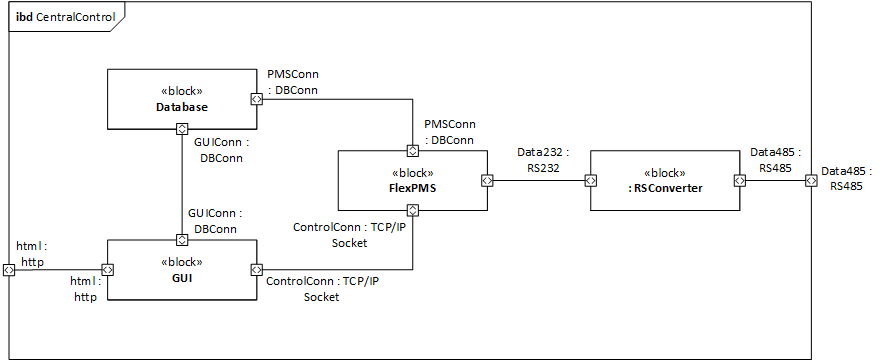
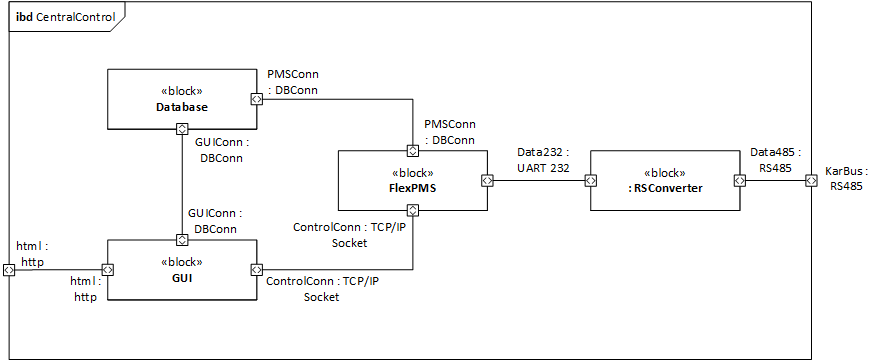
Små rettelser

diff --git a/Projektdokumentation/Systemarkitektur/KarControl/KarControl.tex b/Projektdokumentation/Systemarkitektur/KarControl/KarControl.tex
@@ -28,11 +28,6 @@ Vandpumpen pumper vand fra karret ud til Sensor Ø’erne.
 Flowmåleren måler mængden af vand, som tilføres karret gennem Indløbsventilen.
 
 
-\subsubsection{RSConverter}
-RSConverter konverterer fra RS485 til RS232 når der modtages data, og fra RS232 til RS485 når der afsendes data.
-
-
-
 \subsection{KarControl IBD}
 
 \begin{figure}[H]
@@ -70,15 +65,15 @@ RSConverter konverterer fra RS485 til RS232 når der modtages data fra KarContro
 KarBus				& RS485 bus til kommunikation mellem enheder &	 	& Differentielt bussystem  \\
 OeBus				& RS485 bus til kommunikation mellem enheder &	 	& Differentielt bussystem  \\
 Data485				& RS485 bus til kommunikation mellem enheder &	 	& internt signal   \\
-UART232				& RS485 konverteret til logisk niveau		 &	 	& Signal efter konvertering  \\
+Data232				& RS485 konverteret til logisk niveau		 &	 	& Signal efter konvertering  \\
 EnableIndløb		& Signal til at lukke vand ind i kar		 & 0-5V	& Signal til at styre magnetventil   \\
 EnableAfløb			& Signal til at lukke vand ud af kar		 & 0-5V	& Signal til at styre magnetventil	\\
 EnableVandpumpe		& Styre signal til pumpe			   	     & 0-5V & PWM styret signal	\\
 Puls				& Takt tæller af flow				   	 	 & 0-5V & 	\\
 pH					& Analog signal fra pH måler			 	 & fra -420 til 420 mV  & Analogt signal	\\
-indløb				& vandstyring i kar							 &    	& Til at lukke vand ind i kar	\\
+Indløb				& vandstyring i kar							 &    	& Til at lukke vand ind i kar	\\
 Afløb				& vandstyring i kar	 						 &   	& Til at lukke vand ud af kar	\\
-dossering			& vandstyring til planter					 &      & Til at dosere vand til planterne	\\
+Dossering			& vandstyring til planter					 &      & Til at dosere vand til planterne	\\
 \hline
 \end{tabular}
 }
@@ -87,11 +82,11 @@ dossering			& vandstyring til planter					 &      & Til at dosere vand til plant
 \end{table}
 
 
-\subsection{KarControl Allokeringsdiagram}
+%\subsection{KarControl Allokeringsdiagram}
 
-\begin{figure}[H]
-	\centering
-	\includegraphics[width=0.82\textwidth]{Systemarkitektur/KarControl/KarControl_Allokeringsdiagram.png}
-	\label{fig:KarControl AD}
-	\caption{Allokeringsdiagram af KarControl}
-\end{figure}
+%\begin{figure}[H]
+%	\centering
+%	\includegraphics[width=0.82\textwidth]{Systemarkitektur/KarControl/KarControl_Allokeringsdiagram.png}
+%	\label{fig:KarControl AD}
+%	\caption{Allokeringsdiagram af KarControl}
+%\end{figure}

diff --git a/Projektdokumentation/Systemarkitektur/CentralStyring/CentralStyring.tex b/Projektdokumentation/Systemarkitektur/CentralStyring/CentralStyring.tex
@@ -1,0 +1,41 @@
+\subsection{CentralControl IBD}
+
+\begin{figure}[H]
+	\centering
+	\includegraphics[width=0.82\textwidth]{Systemarkitektur/CentralStyring/CentralControl_IBD.png}
+	\label{fig:CentralControl IBD}
+	\caption{Internal Block Diagram af CentralControl}
+\end{figure}
+
+\subsection{Signal beskrivelser}
+
+\begin{table}[H]
+\centering
+{\rowcolors{2}{white!80!black!30}{white!70!black!60} %farver på hver anden række -starter på 3
+\setlength{\arrayrulewidth}{0.2mm}					 %tykkelse på linier 
+\setlength{\tabcolsep}{10pt}						 %indryk i celle 
+\renewcommand{\arraystretch}{1.5}					 %højden på tabelrum
+\center
+\begin{tabular}{|p{20mm}|p{40mm}|p{30mm}|p{30mm}|}		 %længden på alle rum
+\hline
+
+\multicolumn{4}{|>{\columncolor{white!20!black!90}}m{14.20cm}|}{\textcolor{white}{\large{\textbf{Signal beskrivelser}}}} \\\hline
+\rowcolor{white!70!black!60}
+\textcolor{black}{\large{\textbf{Navn}}}&
+\textcolor{black}{\large{\textbf{Definition}}}&	
+\textcolor{black}{\large{\textbf{Område}}}&
+\textcolor{black}{\large{\textbf{Kommentar}}}\\
+\hline
+KarBus				& RS485 bus til kommunikation mellem enheder &	 	& Differentielt bussystem  \\
+Data485				& RS485 bus til kommunikation mellem enheder &	 	& internt signal   \\
+Data232				& RS485 konverteret til logisk niveau		 &	 	& Signal efter konvertering  \\
+PMSConn				& Database forbindelse						 &		& Til at skrive log \\
+GUIConn				& Database forbindelse						 &		& Til at hente og skrive indstillinger samt log \\
+ControlConn			& Socket forbindelse fra GUI til FlexPMS	 &		& Til at sende kommandoer fra GUI til FlexPMS \\
+html				& Http protokol								 &		& Fobindelse til brugerens browser \\
+\hline
+\end{tabular}
+}
+\caption{signal beskrivelser for CentralControl}
+\label{table:SignalBeskrivelserKarControl}
+\end{table}

diff --git a/Projektdokumentation/Systemarkitektur/Sensor_jordfugtighed/Sensor_jordfugtighed.tex b/Projektdokumentation/Systemarkitektur/Sensor_jordfugtighed/Sensor_jordfugtighed.tex
@@ -1,23 +1,22 @@
 %!TEX root = ../../main.tex
 
-Jordfugtigheds sensoren måler en strøm igennem jorden. Denne strøm vil variere med hensyn til fugtigheden som derfor vil resultere i en spændingsændring på indgangen af analog til digital converteren. Denne spænding bruges til at udregne fugtigheden i procent
+Jordfugt sensoren måler en strøm igennem jorden. Denne strøm vil variere med hensyn til fugtigheden som derfor vil resultere i en spændingsændring på indgangen af analog til digital converteren. Denne spænding bruges til at udregne fugtigheden i procent
 
-\subsection{pH-sensor BDD}
+\subsection{Jordfugt sensor BDD}
 
 \begin{figure}[H]
 	\centering
 	\includegraphics[width=0.82\textwidth]{Systemarkitektur/Sensor_jordfugtighed/JordFugt_probe_BDD.png}
-	\label{fig:pH-sensor BDD}
-	\caption{Block Definition Diagram af pH-sensor}
+	\label{fig:Jordfugt sensor BDD}
+	\caption{Block Definition Diagram af Jordfugt sensor}
 \end{figure}
 
 
-
-\subsection{pH-sensor IBD}
+\subsection{Jordfugt sensor IBD}
 
 \begin{figure}[H]
 	\centering
 	\includegraphics[width=0.82\textwidth]{Systemarkitektur/Sensor_jordfugtighed/JordFugt_probe_IBD.png}
-	\label{fig:pH-sensor IBD}
-	\caption{Internal Block Diagram af pH-sensor}
+	\label{fig:Jordfugt sensor IBD}
+	\caption{Internal Block Diagram af Jordfugt sensor}
 \end{figure}

diff --git a/Projektdokumentation/Systemarkitektur/System/System.tex b/Projektdokumentation/Systemarkitektur/System/System.tex
@@ -37,11 +37,16 @@ KarControl er en styring, som formidler og håndterer al datakommunikation og ko
 
 \subsubsection{Sensor Ø}
 Sensor Ø’er giver mulighed for at måle (f.eks. jordfugtighed) over et større areal ved, at Sensor Ø’erne spredes over området, hvor planterne gror, og har hver især tilsluttet sensorer. Dermed kan man måle jordfugtighed lokalt for området omkring Sensor Ø’en og styre vandtilførslen specifikt for planterne, som står i området.
+
+\subsubsection{RSConverter}
+RSConverter konverterer fra RS485 til RS232 når der modtages data, og fra RS232 til RS485 når der afsendes data.
+
+
 \subsection{Allokeringsdiagram}
 
 \begin{figure}[H]
 	\centering
-	\includegraphics[width=0.82\textwidth]{Systemarkitektur/System/AVS_Allokeringsdiagram.png}
+	\includegraphics[width=1\textwidth]{Systemarkitektur/System/AVS_Allokeringsdiagram.png}
 	\label{fig:System BDD}
 	\caption{Allokeringsdiagram af AVS}
 \end{figure}

diff --git a/Projektdokumentation/Systemarkitektur/Systemarkitektur.tex b/Projektdokumentation/Systemarkitektur/Systemarkitektur.tex
@@ -35,13 +35,19 @@ Alle	& 0.1	 	& 17-03-2015  \\
 
 \newpage
 
-\section{Kar Control diagrammer}
+\section{CentralControl diagrammer}
+
+\input{Systemarkitektur/CentralStyring/CentralStyring}
+
+\newpage
+
+\section{KarControl diagrammer}
 
 \input{Systemarkitektur/KarControl/KarControl}
 
 \newpage
 
-\section{SensorØ diagrammer}
+\section{Sensor Ø diagrammer}
 
 \input{Systemarkitektur/Sensoroe/Sensoroe}
 
@@ -53,7 +59,7 @@ Alle	& 0.1	 	& 17-03-2015  \\
 
 \newpage
 
-\section{jordfugtigheds-sensor diagrammer}
+\section{Jordfugt sensor diagrammer}
 
 \input{Systemarkitektur/Sensor_jordfugtighed/Sensor_jordfugtighed}
 
